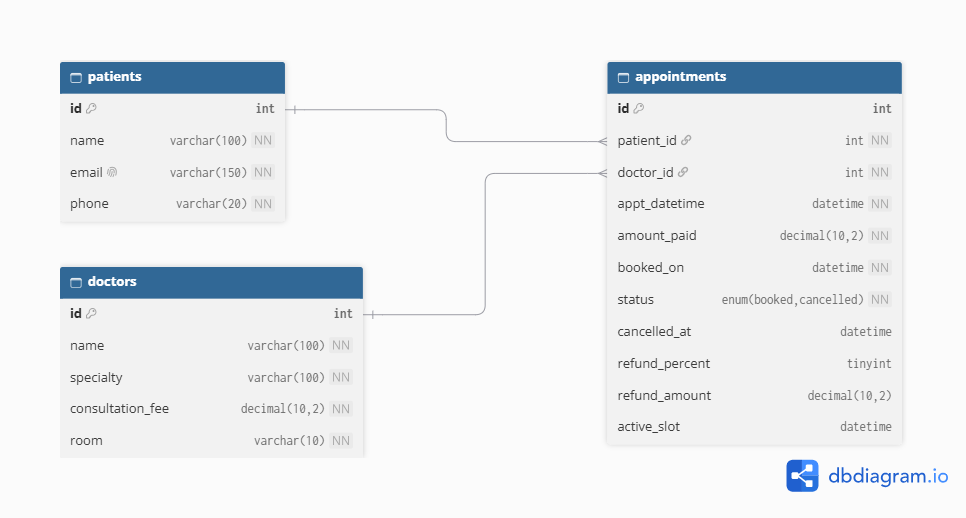
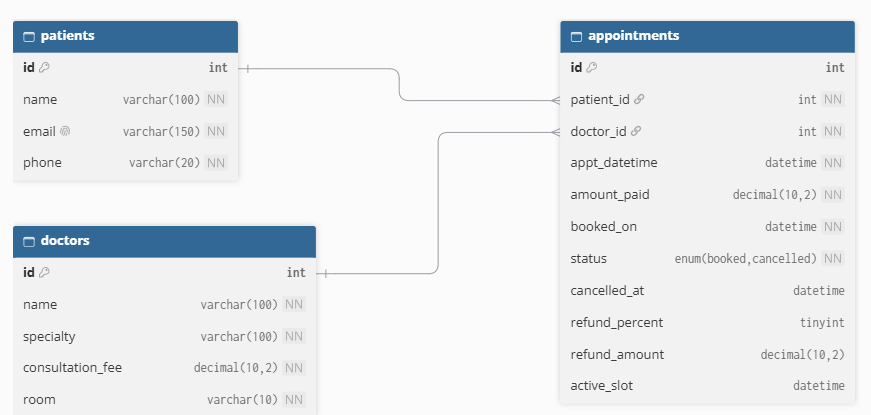
added a final README

diff --git a/README.md b/README.md
@@ -1,96 +1,189 @@
 # MediBook: Clinic Appointment Booking Backend
 
-Express.js + MySQL + Redis backend for booking doctor appointments, with a waitlist worker, audit log, reports and a bilingual feedback page.
+A backend for a community clinic to book doctor appointments, built with **Node.js, Express, MySQL and Redis**. It enforces real booking rules (working hours, daily cap, no double booking even under concurrent requests), handles cancellations with server-calculated refunds, promotes waitlisted patients through a separate worker process, and provides SQL reports, an audit log and a bilingual feedback page.
+
+## Video walkthrough: <https://youtu.be/yXlwboks6Lw>
+
+## Contents
+1. [Features](#features)
+2. [Tech stack](#tech-stack)
+3. [Setup](#setup)
+4. [Running the project](#running-the-project)
+5. [Project structure](#project-structure)
+6. [Database design](#database-design)
+7. [API reference](#api-reference)
+8. [Design justifications](#design-justifications)
+9. [Testing](#testing)
+10. [Postman collection](#postman-collection)
+
+## Features
+| Assessment part | What is implemented |
+|---|---|
+| A, B Database | 3-table schema in 3NF with constraints, `schema.sql`, `seed.sql`, diagram |
+| C.1 CRUD | Patients and doctors: create, read one/all, update, delete, validated |
+| C.2 Booking | Future-only, 09:00-17:00, 30-minute boundary, max 12 per doctor per day, no shared slot under simultaneous requests |
+| C.3 Cancellation | Server-side refund tiers, atomic cancellation and refund, cancelled slot rebookable, record kept |
+| C.4-C.6 Statistics | Doctor stats, doctors report, busy-days report, all computed in SQL |
+| D Audit log | Async JSON-lines log in `logs/audit.log` |
+| E Redis queues | Waitlist, separate worker, safe promotion, confirmation jobs |
+| F Tests | 23 Jest tests, no live services needed |
+| G i18n | `/feedback` page in English and French |
+
+## Tech stack
+Node.js 20+, Express 5, MySQL 8 (`mysql2`, parameterized queries only, no ORM), Redis 7 with BullMQ, Jest.
 
 ## Setup
 
-**Requirements:** Node.js 20+, MySQL 8, Redis 7 (Docker is the easiest way to get both).
-
+### 1. Start MySQL and Redis
+The easiest way is Docker:
 ```bash
 docker run -d --name medibook-mysql -e MYSQL_ROOT_PASSWORD=<choose-a-password> -p 3307:3306 mysql:8
 docker run -d --name medibook-redis -p 6379:6379 redis:7
 ```
+Using your own MySQL and Redis instead is fine; just match the values in `.env`.
 
+### 2. Install
 ```bash
 git clone https://github.com/Julia04-rub/adv-backend-summative-medibook-project.git
 cd adv-backend-summative-medibook-project
 npm install
-cp .env.example .env        
 ```
 
-Create the schema and seed data (from the project root, with the password you chose):
+### 3. Configure environment
+Copy `.env.example` to `.env` (Windows: `copy .env.example .env`) and fill in the password.
 
+| Variable | Purpose | Example |
+|---|---|---|
+| `PORT` | API port | `3000` |
+| `DB_HOST` | MySQL host | `localhost` |
+| `DB_PORT` | MySQL port | `3307` |
+| `DB_USER` | MySQL user | `root` |
+| `DB_PASSWORD` | MySQL password | your password |
+| `DB_NAME` | Database name | `medibook` |
+| `REDIS_HOST` | Redis host | `127.0.0.1` |
+| `REDIS_PORT` | Redis port | `6379` |
+| `AUDIT_LOG_PATH` | Optional log path override | leave empty |
+
+### 4. Create the database and load sample data
+Linux/macOS/Git Bash:
 ```bash
 docker exec -i medibook-mysql mysql -uroot -p<password> < database/schema.sql
 docker exec -i medibook-mysql mysql -uroot -p<password> < database/seed.sql
 ```
-(PowerShell: `Get-Content database/schema.sql | docker exec -i medibook-mysql mysql -uroot -p<password>`.) With a local MySQL, run both files with the `mysql` client or Workbench instead.
+Windows PowerShell:
+```powershell
+Get-Content database/schema.sql | docker exec -i medibook-mysql mysql -uroot -p<password>
+Get-Content database/seed.sql | docker exec -i medibook-mysql mysql -uroot -p<password>
+```
+With a local MySQL client you can run `mysql -u root -p < database/schema.sql` instead. The scripts create the `medibook` database.
 
-Run:
+**Seed data:** 4 patients, 3 doctors (Dr. Owusu has no appointments), and 14 appointments, including Dr. Boateng's 11 of 12 slots on 2026-12-10 (one booking away from the daily cap) and one cancelled appointment with a refund.
 
+## Running the project
 ```bash
 npm start          # API on http://localhost:3000
-npm run worker     # separate terminal: waitlist and confirmation worker
-npm test           # unit tests, no MySQL or Redis needed
+npm run worker     # in a second terminal: waitlist and confirmation worker
+npm test           # unit tests (no MySQL or Redis needed)
+npm run dev        # API with auto-restart for development
 ```
-
-### Environment variables (`.env.example`)
-| Variable | Purpose |
-|---|---|
-| PORT | API port (default 3000) |
-| DB_HOST, DB_PORT, DB_USER, DB_PASSWORD, DB_NAME | MySQL connection |
-| REDIS_HOST, REDIS_PORT | Redis connection |
-| AUDIT_LOG_PATH | Optional override for `logs/audit.log` |
+The worker is a **separate process** and must be running for waitlist promotion and confirmation jobs to be processed.
 
 ## Project structure
 ```
-database/   schema.sql, seed.sql
-docs/       schema-diagram.png, Postman collection
-locales/    en.json, fr.json
+database/        schema.sql, seed.sql
+docs/            schema-diagram.png, Medibook.postman_collection.json
+locales/         en.json, fr.json
+logs/            audit.log (created automatically on first write)
 src/
-  models/       all SQL (parameterized, mysql2)
-  controllers/  request handling and validation
-  services/     business rules (booking, cancellation, refunds, waitlist, jobs)
-  routes/       URL and method mapping
-  workers/      waitlist worker (separate process)
-  middleware/   central error handling
-  utils/        dates, validators, audit logger, transactions
-  views/        feedback page renderer
-tests/      Jest unit tests
+  config/        environment config, MySQL pool, Redis connection
+  models/        all SQL, parameterized with mysql2
+  controllers/   request validation and responses
+  services/      business rules: booking, cancellation, refunds, waitlist, jobs, locale
+  routes/        URL and HTTP method mapping
+  workers/       waitlist worker (separate process)
+  middleware/    central error handling
+  utils/         dates, validators, audit logger, transactions
+  views/         feedback page renderer
+tests/           Jest unit tests
 ```
 
-## API
-| Method | Path | Purpose |
-|---|---|---|
-| GET/POST | `/api/patients`, `/api/doctors` | list, create |
-| GET/PUT/DELETE | `/api/patients/:id`, `/api/doctors/:id` | read, update, delete |
-| GET | `/api/doctors/:id/stats` | revenue, upcoming count, 7-day load, utilization |
-| POST | `/api/appointments` | book |
-| GET | `/api/appointments/:id` | read |
-| DELETE | `/api/appointments/:id` | cancel (soft delete) with refund |
-| POST/GET | `/api/waitlist` | join / view waitlist |
-| GET | `/api/reports/doctors`, `/api/reports/busy-days` | SQL reports |
-| GET/POST | `/feedback?lang=en\|fr` | feedback page |
+## Database design
 
-Status codes: 400 malformed input, 404 unknown id, 409 conflicts (slot taken, day full, already cancelled), 422 broken business rule (past, outside 09:00-17:00, not on a 30-minute boundary, past appointment cancel).
+| Table | Key columns | Constraints |
+|---|---|---|
+| `patients` | `id`, `name`, `email`, `phone` | `email` UNIQUE, all NOT NULL |
+| `doctors` | `id`, `name`, `specialty`, `consultation_fee`, `room` | `consultation_fee` DECIMAL(10,2) with CHECK >= 0 |
+| `appointments` | `id`, `patient_id`, `doctor_id`, `appt_datetime`, `amount_paid`, `booked_on`, `status`, `cancelled_at`, `refund_percent`, `refund_amount`, `active_slot` | foreign keys (ON DELETE RESTRICT), CHECK on `amount_paid` and `refund_percent` (0, 50, 100), UNIQUE `(doctor_id, active_slot)` |
+
+Relationships: one patient has many appointments, and one doctor has many appointments. `amount_paid` is stored per appointment because it can differ from the doctor's current fee.
+
+## API reference
+
+Base URL: `http://localhost:3000`
+
+| Method | Path | Purpose | Success |
+|---|---|---|---|
+| GET | `/api/patients` | List patients | 200 |
+| POST | `/api/patients` | Create patient | 201 |
+| GET | `/api/patients/:id` | Get one patient | 200 |
+| PUT | `/api/patients/:id` | Update patient | 200 |
+| DELETE | `/api/patients/:id` | Delete patient | 204 |
+| GET, POST | `/api/doctors` | List, create doctors | 200, 201 |
+| GET, PUT, DELETE | `/api/doctors/:id` | Read, update, delete a doctor | 200, 200, 204 |
+| GET | `/api/doctors/:id/stats` | Revenue, upcoming count, 7-day load, utilization | 200 |
+| POST | `/api/appointments` | Book an appointment | 201 |
+| GET | `/api/appointments/:id` | Get an appointment | 200 |
+| DELETE | `/api/appointments/:id` | Cancel (soft delete) with refund | 200 |
+| POST | `/api/waitlist` | Join the waitlist for a taken slot or full day | 201 |
+| GET | `/api/waitlist?doctor_id=&date=YYYY-MM-DD` | View a waitlist | 200 |
+| GET | `/api/reports/doctors` | Every doctor's appointments and revenue | 200 |
+| GET | `/api/reports/busy-days` | Doctor-days above 80% of the daily cap | 200 |
+| GET, POST | `/feedback?lang=en\|fr` | Feedback page and submission | 200 |
+
+
+### Status codes
+| Code | Used for |
+|---|---|
+| 200, 201, 204 | Success (read/update/cancel, create, delete) |
+| 400 | Malformed input, invalid ids or dates, with a message for each problem |
+| 404 | Unknown patient, doctor or appointment |
+| 409 | Conflicts with existing data: `SLOT_TAKEN`, `DAY_FULL`, `ALREADY_CANCELLED`, `ALREADY_WAITLISTED`, `SLOT_AVAILABLE`, duplicate email, deleting a record that has appointments |
+| 422 | A business rule is broken: past time, outside 09:00-17:00, off the 30-minute boundary, cancelling a past appointment |
 
 ## Design justifications
 
 ### Part C: booking and cancellation
-- **Concurrency:** booking runs in a transaction that locks the doctor row (`SELECT ... FOR UPDATE`), so the 12-per-day count is always accurate. A unique key on `(doctor_id, active_slot)` is the final guarantee against two patients sharing a slot.
-- **Rebookable cancelled slots:** `active_slot` is a generated column that is NULL when an appointment is cancelled. MySQL allows many NULLs in a unique index, so the slot is free again and the cancelled row stays for refund history.
-- **Refund policy (computed server-side):** more than 48 hours notice = 100%; from 24 hours up to and including 48 hours = 50%; less than 24 hours = 0%. Exactly 48h and exactly 24h both give 50%. Refund fields are stored on the appointment row (the brief allows only 3 tables), and the status change and refund are one `UPDATE` inside a transaction, so they succeed or fail together.
-- **Revenue definition:** `amount_paid` for booked appointments, `amount_paid - refund_amount` for cancelled ones.
-- **Busy day:** more than 80% of the 12-slot cap, calculated in SQL.
+- **Concurrency:** booking runs in a transaction that locks the doctor's row with `SELECT ... FOR UPDATE`, so the 12-per-day count is always accurate. The unique key on `(doctor_id, active_slot)` is the final guarantee that two patients can never share a slot, even if requests arrive at the same instant.
+- **Rebookable cancelled slots:** `active_slot` is a generated column that equals the appointment time while the booking is active and is NULL once cancelled. MySQL allows many NULLs in a unique index, so a cancelled slot is free again while the cancelled row stays for refund history.
+- **Refund policy (calculated by the server, never trusted from the client):**
+  - More than 48 hours' notice: 100%
+  - From 24 hours up to and including 48 hours: 50%
+  - Less than 24 hours: 0%
+  - Exactly 48 hours and exactly 24 hours both fall in the 50% tier.
+- **Atomic cancellation:** the project is limited to three tables, so the refund is stored on the appointment row. Marking it cancelled and recording the refund is one `UPDATE` inside a transaction, so both succeed or both fail. Cancelling an appointment already cancelled returns 409.
+- **Revenue:** `amount_paid` for booked appointments, and `amount_paid - refund_amount` for cancelled ones.
+- **Busy day:** more than 80% of the 12-slot cap (10 or more bookings), calculated in SQL. The 7-day view uses a recursive CTE so days with no bookings still appear.
+- **Status codes:** 409 means a conflict with existing data; 422 means the request itself breaks a business rule.
 
 ### Part D: audit log
-Every successful booking and cancellation is appended as a JSON line to `logs/audit.log` with `fs/promises` (no `*Sync` calls). The directory is created on first write. The logger catches its own errors, so a logging failure never fails a request. Logging happens after the transaction commits, so rolled-back work is never logged.
+Every successful booking and cancellation is appended as one JSON line to `logs/audit.log` using `fs/promises`, with no `*Sync` calls anywhere. The `logs/` directory is created on first write. The logger catches its own errors, so a logging failure never fails the user's request. Logging happens after the database transaction commits, so work that rolled back is never logged. Waitlist promotions and confirmation messages are logged to the same file.
 
 ### Part E: queues and Redis
-- **Waitlist:** a Redis list per doctor per day. A patient is offered a spot via the 409 responses (`SLOT_TAKEN`, `DAY_FULL`) and joins with `POST /api/waitlist`.
-- **Promotion:** a cancellation enqueues a BullMQ job. The separate worker process (`npm run worker`) moves the first waiting patient to a `processing` list (`LMOVE`), books them through the same booking service, and only then removes them from `processing`.
-- **Failed promotion:** if booking fails, the patient is pushed back to the front of the queue (or to `waitlist:failed` for a permanent error such as a deleted patient). If the worker crashes mid-job, leftover `processing` entries are restored at the next worker start. A patient is never lost from both the queue and the appointments table.
-- **Confirmation jobs:** every booking, including promoted ones, enqueues a confirmation job; the worker writes the message to the audit log. Failures to enqueue are logged and never fail the request.
+- **Waitlist:** a Redis list per doctor per day. A full slot or day returns a 409 that points the patient to `POST /api/waitlist`.
+- **Promotion:** a cancellation enqueues a BullMQ job. A separate worker process moves the first waiting patient to a `processing` list with `LMOVE`, books them through the same booking service, and only then removes them from `processing`.
+- **Failed promotion:** if the booking fails (for example the slot was taken again), the patient is put back at the front of the queue. A permanent error such as a deleted patient moves the entry to a `waitlist:failed` list. If the worker crashes mid-job, entries left in `processing` are restored when the worker starts. A patient is never lost from both the queue and the appointments table.
+- **Confirmation jobs:** every booking, including promoted ones, enqueues a confirmation job; the worker writes the message to the audit log. If enqueuing fails, it is logged and the request still succeeds.
 
-### Part G: i18n
-Page text comes from `locales/en.json` and `locales/fr.json`. `?lang=` falls back to English for anything unsupported. The date uses `Intl.DateTimeFormat` with the active language.
+### Part G: internationalization
+All page text comes from `locales/en.json` and `locales/fr.json`. `GET /feedback?lang=fr` shows French; an unsupported or missing language falls back to English. The date is formatted with `Intl.DateTimeFormat` for the active language, and all text is HTML-escaped before it is rendered.
+
+## Testing
+```bash
+npm test
+```
+23 tests across two suites, with fixed dates and no database or Redis required:
+- **Refund calculator:** all three tiers, both exact boundaries (24h and 48h), and the amount computed from `amount_paid`.
+- **Validation:** slot rules (17:00, 16:30, 09:15, before opening, past time), date parsing (malformed and impossible dates such as 2026-02-30), booking input, and patient input.
+
+## Postman collection
+Import `docs/Medibook.postman_collection.json` into Postman to run every request used in the demo: CRUD, booking rules, cancellations, waitlist, stats and reports.
